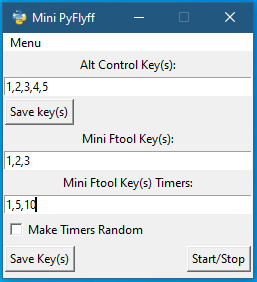
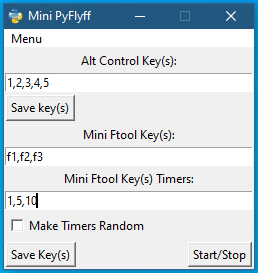
added a button to enable/disable alt control

Changed region(s): [[0.0, 0.0, 0.9961, 0.9963]]

diff --git a/MiniPyFlyff.py b/MiniPyFlyff.py
@@ -8,11 +8,22 @@ import os
 import saveConfigs
 
 
-def start_mini_ftool():
-    if globalVariables.on:
-        globalVariables.on = False
+def start_stop_alt_control():
+    if globalVariables.alt_control_on:
+        globalVariables.alt_control_on = False
+        button_alt_control_start_stop["text"] = "Enable"
     else:
-        globalVariables.on = True
+        globalVariables.alt_control_on = True
+        button_alt_control_start_stop["text"] = "Disable"
+
+
+def start_stop_mini_ftool():
+    if globalVariables.mini_ftool_on:
+        globalVariables.mini_ftool_on = False
+        button_mini_ftool_start_stop["text"] = "Start"
+    else:
+        globalVariables.mini_ftool_on = True
+        button_mini_ftool_start_stop["text"] = "Stop"
 
 
 def save_mini_ftool_key():
@@ -84,8 +95,12 @@ entry_alt_control_keys.pack(fill=X, padx=1, pady=1)
 frame_alt_control_save_button = Frame(root)
 frame_alt_control_save_button.pack(fill=X, padx=1, pady=1)
 
-button_alt_control_save = Button(frame_alt_control_save_button, text="Save key(s)", command=save_keys)
+button_alt_control_save = Button(frame_alt_control_save_button, text="Save key(s)", width=10, command=save_keys)
 button_alt_control_save.pack(side=LEFT, padx=1, pady=1)
+
+button_alt_control_start_stop = Button(frame_alt_control_save_button, text="Enable", width=10,
+                                       command=start_stop_alt_control)
+button_alt_control_start_stop.pack(side=RIGHT, padx=1, pady=1)
 
 label_mini_ftool = Label(text="Mini Ftool Key(s):")
 label_mini_ftool.pack(fill=X, padx=1, pady=1)
@@ -108,10 +123,11 @@ checkbutton_mini_ftool.pack(side=LEFT, padx=1, pady=1)
 frame_mini_ftool_buttons = Frame(root)
 frame_mini_ftool_buttons.pack(fill=X, padx=1, pady=1)
 
-button_mini_ftool_save = Button(frame_mini_ftool_buttons, text="Save Key(s)", command=save_mini_ftool_key)
+button_mini_ftool_save = Button(frame_mini_ftool_buttons, text="Save Key(s)", width=10, command=save_mini_ftool_key)
 button_mini_ftool_save.pack(side=LEFT, padx=1, pady=1)
 
-button_mini_ftool_start_stop = Button(frame_mini_ftool_buttons, text="Start/Stop", command=start_mini_ftool)
+button_mini_ftool_start_stop = Button(frame_mini_ftool_buttons, text="Start", width=10,
+                                      command=start_stop_mini_ftool)
 button_mini_ftool_start_stop.pack(side=RIGHT, padx=1, pady=1)
 
 entry_alt_control_keys.insert(END, saveConfigs.open_config()[0])

diff --git a/browserControl.py b/browserControl.py
@@ -3,9 +3,18 @@ import win32api
 import win32con
 import time
 import virtualKeys
+import globalVariables
 
 
-def firefox_window(key):
+def alt_control_send_keys(key):
+    if globalVariables.alt_control_on:
+        window = win32gui.FindWindow("MozillaWindowClass", None)
+        win32api.SendMessage(window, win32con.WM_KEYDOWN, virtualKeys.vk_code.get(key), 0)
+        time.sleep(0.1)
+        win32api.SendMessage(window, win32con.WM_KEYUP, virtualKeys.vk_code.get(key), 0)
+
+
+def mini_ftool_send_keys(key):
     window = win32gui.FindWindow("MozillaWindowClass", None)
     win32api.SendMessage(window, win32con.WM_KEYDOWN, virtualKeys.vk_code.get(key), 0)
     time.sleep(0.1)

diff --git a/miniFtool.py b/miniFtool.py
@@ -8,9 +8,9 @@ from tkinter import messagebox
 def mini_ftool(check):
     while True:
         try:
-            if globalVariables.on:
+            if globalVariables.mini_ftool_on:
                 for key, timer in zip(globalVariables.mini_ftool_keys, globalVariables.mini_ftool_key_timers):
-                    browserControl.firefox_window(key)
+                    browserControl.mini_ftool_send_keys(key)
 
                     if check == 1:
                         time.sleep(random.uniform(0, float(timer)))

diff --git a/keyboardListener.py b/keyboardListener.py
@@ -10,4 +10,4 @@ def listener():
 
 def send_key(event):
     if event.name in globalVariables.alt_control_key_list:
-        browserControl.firefox_window(event.name)
+        browserControl.alt_control_send_keys(event.name)

diff --git a/globalVariables.py b/globalVariables.py
@@ -1,4 +1,6 @@
-on = False
+mini_ftool_on = False
+
+alt_control_on = False
 
 alt_control_key_list = []
 
